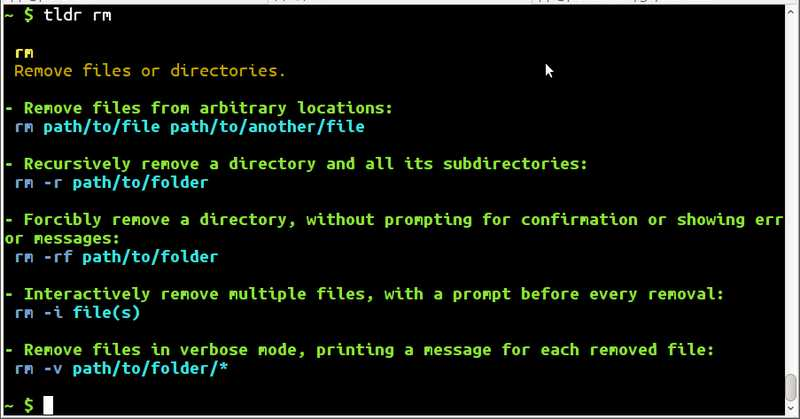
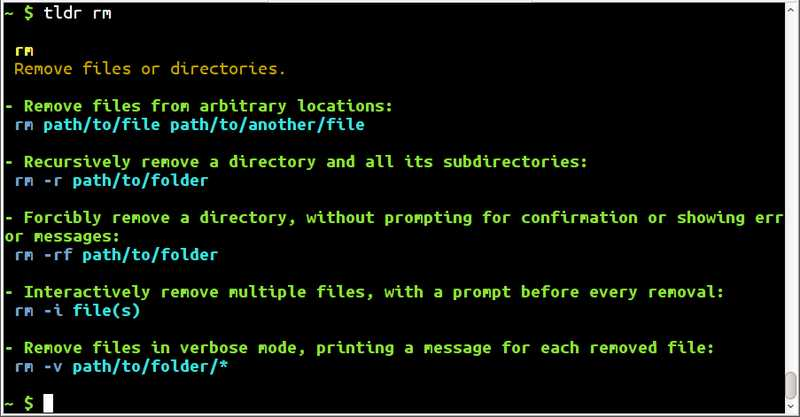
Renamed repo, adapted readme and customize screenshot

diff --git a/README.md b/README.md
@@ -1,4 +1,4 @@
-# tldr (bash)
+# tldr-bash-client
 
 **A fully-functional [bash](https://tiswww.case.edu/php/chet/bash/bashtop.html)
 client for the [tldr](https://github.com/rprieto/tldr/) project, providing
@@ -44,6 +44,8 @@ Also the error color and page expiry can easily be set:
 
 Please file an issue for a question, a bug or a feature request.
 Or even better, send a pull request!
+
+[This tldr-bash-client github page](http://github.com/pepa65/tldr-bash-client "github.com/pepa65/tldr-bash-client")
 
 <img alt="tldr markdown screenshot" src="tldr-markdown.jpg" title="tldr markdown" width="600" />
 
